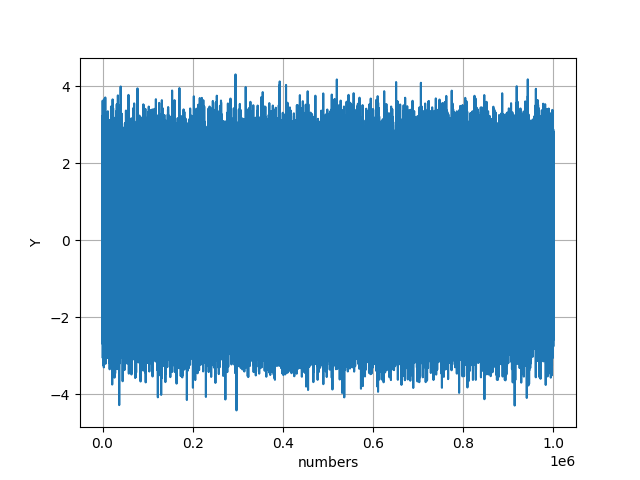
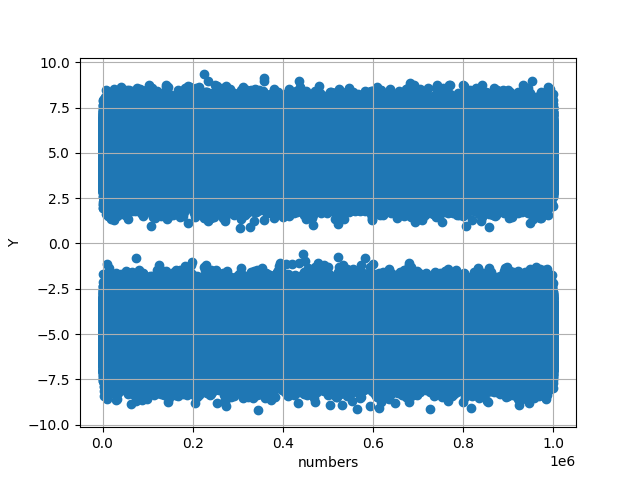
Scatter

diff --git a/Randomnum/main.tex b/Randomnum/main.tex
@@ -721,7 +721,8 @@ Verify by plotting  the theoretical $P_e$ with respect to $A$ from 0 to 10 dB.
 \section{Guasssian to Other}
 \begin{enumerate}[label=\thesection.\arabic*
 ,ref=\thesection.\theenumi]
-\item Let $X_1  \sim N(0,1) $ and $X_2  \sim N(0,1) $.Plot the CDF and PDF of 
+\item Let $X_1  \sim \gauss{0}{1} $ and
+$X_2  \sim \gauss{0}{1} $.Plot the CDF and PDF of 
 \begin{align}
     V=X_1^2+X_2^2
     \end{align}

diff --git a/Randomnum/codes/5.3.py b/Randomnum/codes/5.3.py
@@ -5,7 +5,7 @@ import matplotlib.pyplot as plt
 simlen = 1000000
 randvar=np.loadtxt('combo.dat',dtype='double')
 x = range(simlen)
-plt.plot(x,randvar)
+plt.scatter(x,randvar)
 plt.grid() 
 plt.xlabel('numbers')
 plt.ylabel('Y')
